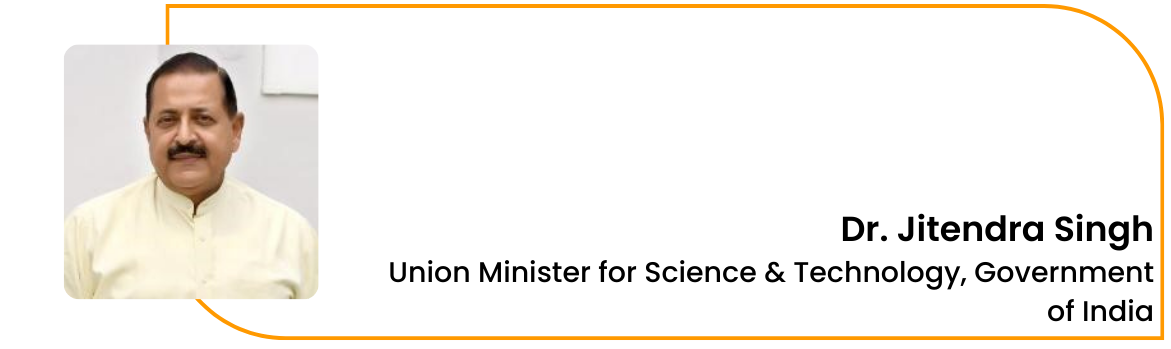
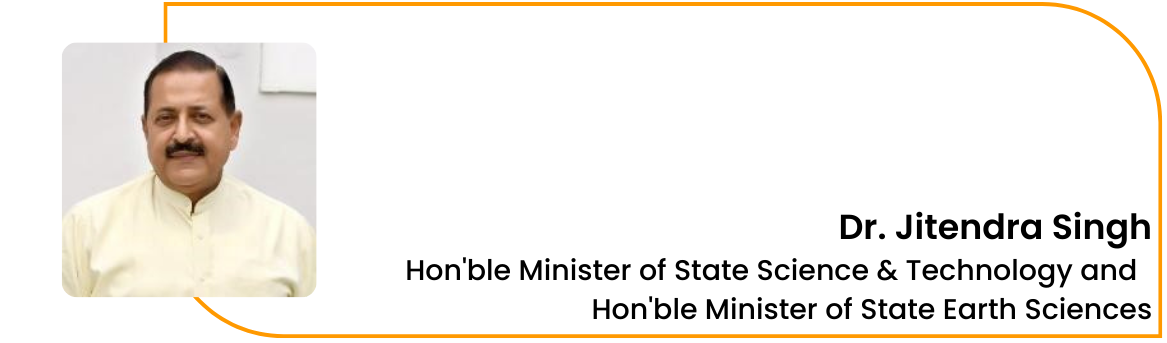
designation updated

diff --git a/index.html b/index.html
@@ -60,7 +60,7 @@
       <h4><i>Inaugurated by</i></h4>
       <img src="./IMAGES/Picture13.jpg" alt="picture13">
       <h3>Dr. Jitendra singh</h3>
-      <p> Hon'ble Union Minister For Science & Technology, Earth Sciences,Environment, Forest & Climate Change</p>
+      <p> Hon'ble Minister of State Science & Technology and Hon'ble Minister of State Earth Sciences </p>
    <h5><i>04<sup>th</sup> April 2022</i></h5>
     </div>
     <div class="bg-warning text-dark d-flex">
